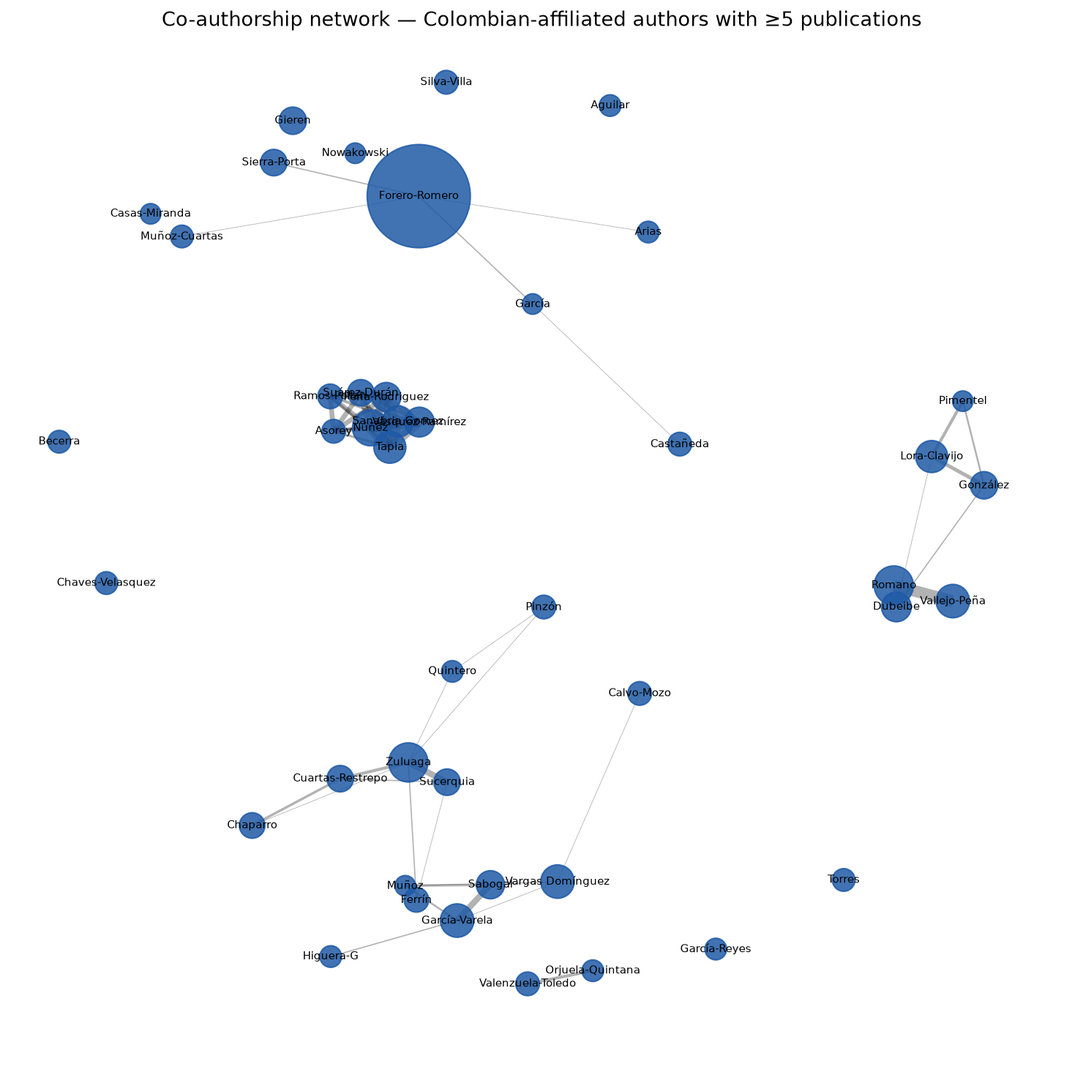
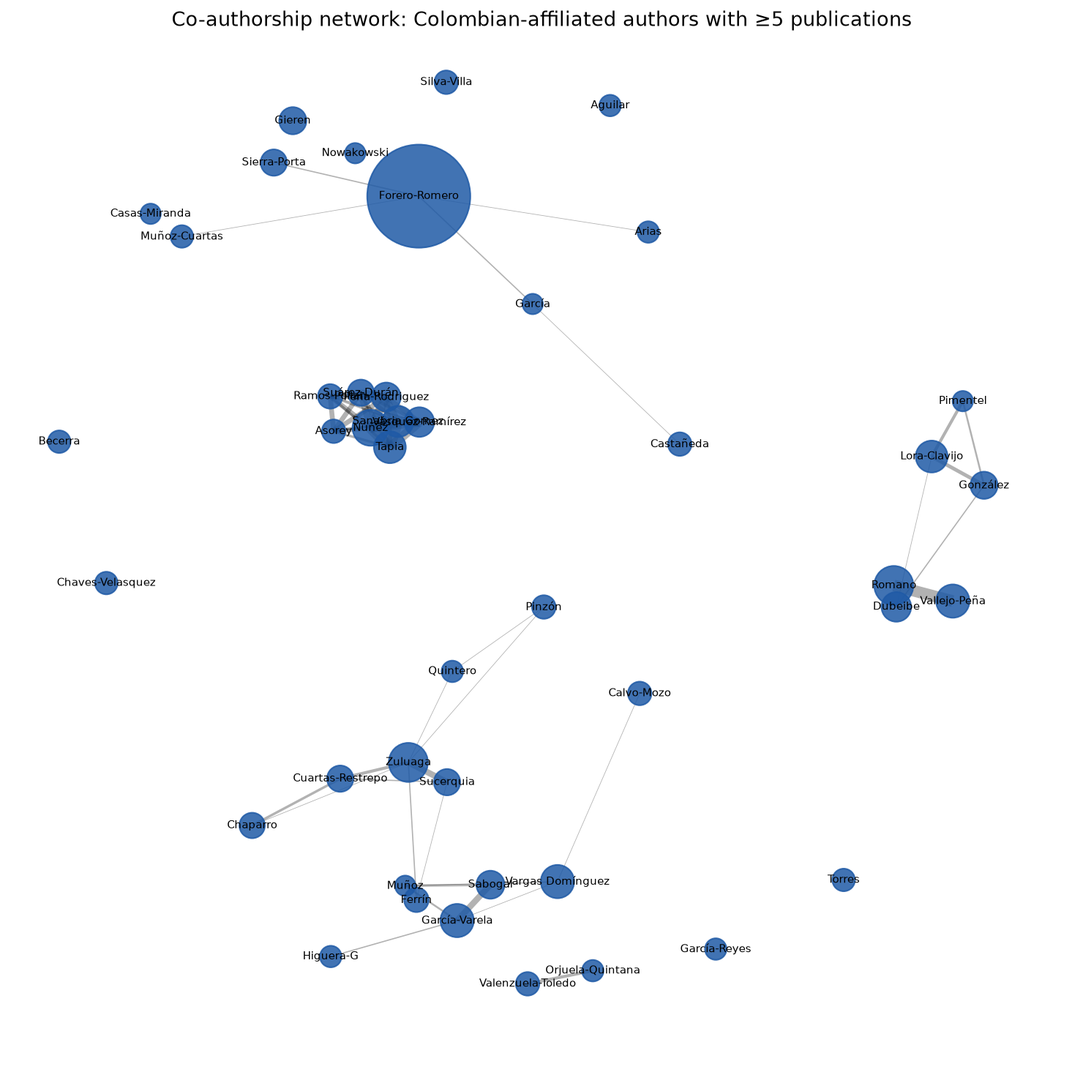
Eliminar las rayas de diálogo (em dash) del informe, el README y las figuras
Reescribe cada aparición en vez de sustituirla mecánicamente: los pares
pasan a paréntesis o comas, los separadores de leyendas de figuras y tablas
a dos puntos, y algunas frases se reordenan para que sigan leyéndose bien.
Los dos títulos de figura afectados en plots.py obligan a regenerar los PNG.

Los archivos de data/ conservan sus rayas: vienen de los títulos y
afiliaciones exportados por ADS y son datos, no prosa.

Changed region(s): [[0.1554, 0.0, 0.8392, 0.0311]]

diff --git a/index.html b/index.html
@@ -523,18 +523,18 @@
     <h2>Alcance y Limitaciones</h2>
     <p>Esta nota actualiza las tendencias institucionales y de autor&iacute;a reportadas en Forero&#8209;Romero (2024) usando una exportaci&oacute;n reciente de NASA ADS, pero es un instrumento m&aacute;s limitado que aquel art&iacute;culo, construido sin Web of Science y sin un registro controlado de autores. Cinco limitaciones acotan cada figura y tabla a continuaci&oacute;n.</p>
     <ol class="caveat-list">
-      <li><span class="num">01</span><span>No existe un identificador de autor (ORCID) en esta exportaci&oacute;n. Las variantes de nombre &mdash; &ldquo;J. E.&rdquo; frente a &ldquo;Jaime E.&rdquo;, divisiones inconsistentes de apellidos compuestos, errores tipogr&aacute;ficos ocasionales en los metadatos &mdash; se fusionan mediante una heur&iacute;stica conservadora de apellido&#43;iniciales. A&uacute;n as&iacute;, puede separar o fusionar err&oacute;neamente a un pu&ntilde;ado de personas.</span></li>
-      <li><span class="num">02</span><span>La plantilla de exportaci&oacute;n de ADS trunca las listas de autores en 200, lo que afect&oacute; a los 50 art&iacute;culos de las grandes colaboraciones internacionales (DESI, LIGO/Virgo/KAGRA, Pierre Auger). Esas listas <strong style="color:inherit">se recuperaron completas por la API de ADS</strong> y las cifras de aqu&iacute; ya reflejan el n&uacute;mero real de autores &mdash; hasta 3.677 en un solo art&iacute;culo. En consecuencia, el promedio de autores por publicaci&oacute;n y las cifras de coautor&iacute;a est&aacute;n dominados por esos art&iacute;culos: la mediana (6 autores) describe mucho mejor al art&iacute;culo t&iacute;pico que el promedio (90).</span></li>
+      <li><span class="num">01</span><span>No existe un identificador de autor (ORCID) en esta exportaci&oacute;n. Las variantes de nombre (&ldquo;J. E.&rdquo; frente a &ldquo;Jaime E.&rdquo;, divisiones inconsistentes de apellidos compuestos, errores tipogr&aacute;ficos ocasionales en los metadatos) se fusionan mediante una heur&iacute;stica conservadora de apellido&#43;iniciales. A&uacute;n as&iacute;, puede separar o fusionar err&oacute;neamente a un pu&ntilde;ado de personas.</span></li>
+      <li><span class="num">02</span><span>La plantilla de exportaci&oacute;n de ADS trunca las listas de autores en 200, lo que afect&oacute; a los 50 art&iacute;culos de las grandes colaboraciones internacionales (DESI, LIGO/Virgo/KAGRA, Pierre Auger). Esas listas <strong style="color:inherit">se recuperaron completas por la API de ADS</strong> y las cifras de aqu&iacute; ya reflejan el n&uacute;mero real de autores, hasta 3.677 en un solo art&iacute;culo. En consecuencia, el promedio de autores por publicaci&oacute;n y las cifras de coautor&iacute;a est&aacute;n dominados por esos art&iacute;culos: la mediana (6 autores) describe mucho mejor al art&iacute;culo t&iacute;pico que el promedio (90).</span></li>
       <li><span class="num">03</span><span>La atribuci&oacute;n institucional es una coincidencia de subcadenas contra textos libres de afiliaci&oacute;n, no una consulta controlada ROR/GRID. Cerca del 3&#37; de las afiliaciones que mencionan a Colombia caen en una categor&iacute;a &ldquo;otra&rdquo; sin clasificar, en vez de una instituci&oacute;n identificada.</span></li>
-      <li><span class="num">04</span><span>Los conteos de citas son una &uacute;nica instant&aacute;nea de ADS, no una serie temporal. &ldquo;Citas por a&ntilde;o&rdquo; m&aacute;s abajo es el total de citas dividido por la edad del art&iacute;culo &mdash; un indicador aproximado del impacto, no una curva de tasa de citaci&oacute;n observada.</span></li>
+      <li><span class="num">04</span><span>Los conteos de citas son una &uacute;nica instant&aacute;nea de ADS, no una serie temporal. &ldquo;Citas por a&ntilde;o&rdquo; m&aacute;s abajo es el total de citas dividido por la edad del art&iacute;culo: un indicador aproximado del impacto, no una curva de tasa de citaci&oacute;n observada.</span></li>
       <li><span class="num">05</span><span>Se excluye en todo el an&aacute;lisis un &uacute;nico registro de 2027 en prensa, por ser un grupo demasiado escaso para interpretar.</span></li>
     </ol>
-    <p>Nada de esto invalida la tendencia general: la producci&oacute;n astron&oacute;mica con afiliaci&oacute;n colombiana ha crecido cerca de dos &oacute;rdenes de magnitud desde 1980, bajo cualquier conjunto razonable de decisiones metodol&oacute;gicas. Pero los datos puntuales &mdash; y en especial las instituciones m&aacute;s peque&ntilde;as, los conteos bajos de publicaciones, y cualquier cifra que involucre a las grandes colaboraciones internacionales &mdash; deben leerse como descriptivos, no como precisos.</p>
+    <p>Nada de esto invalida la tendencia general: la producci&oacute;n astron&oacute;mica con afiliaci&oacute;n colombiana ha crecido cerca de dos &oacute;rdenes de magnitud desde 1980, bajo cualquier conjunto razonable de decisiones metodol&oacute;gicas. Pero los datos puntuales, y en especial las instituciones m&aacute;s peque&ntilde;as, los conteos bajos de publicaciones y cualquier cifra que involucre a las grandes colaboraciones internacionales, deben leerse como descriptivos, no como precisos.</p>
   </div>
 
   <div class="abstract">
     <span class="label">Resumen</span>
-    <p class="lede">Recopilamos 723 publicaciones de astronom&iacute;a y astrof&iacute;sica indexadas en el Astrophysics Data System de la NASA con al menos un autor de afiliaci&oacute;n colombiana, entre 1980 y 2026. El conjunto de registros abarca 56 revistas y, tras la fusi&oacute;n heur&iacute;stica de nombres, cerca de 403 investigadores individuales en 33 instituciones identificadas, que en conjunto acumulan m&aacute;s de 26.500 citas y un &iacute;ndice <em>h</em> global de 65. Reportamos tendencias de crecimiento, efectos del tama&ntilde;o de colaboraci&oacute;n, patrones de citaci&oacute;n, clasificaciones institucionales, y distribuciones por revista y por tema, siguiendo el enfoque descriptivo de Forero&#8209;Romero (2024) en todo lo que los datos disponibles lo permiten. Universidad de los Andes, Universidad de Antioquia, Universidad Nacional de Colombia y Universidad Industrial de Santander siguen siendo los cuatro mayores contribuyentes &mdash; consistente con el hallazgo central del estudio anterior pese a tres a&ntilde;os adicionales de datos y una base de datos fuente distinta.</p>
+    <p class="lede">Recopilamos 723 publicaciones de astronom&iacute;a y astrof&iacute;sica indexadas en el Astrophysics Data System de la NASA con al menos un autor de afiliaci&oacute;n colombiana, entre 1980 y 2026. El conjunto de registros abarca 56 revistas y, tras la fusi&oacute;n heur&iacute;stica de nombres, cerca de 403 investigadores individuales en 33 instituciones identificadas, que en conjunto acumulan m&aacute;s de 26.500 citas y un &iacute;ndice <em>h</em> global de 65. Reportamos tendencias de crecimiento, efectos del tama&ntilde;o de colaboraci&oacute;n, patrones de citaci&oacute;n, clasificaciones institucionales, y distribuciones por revista y por tema, siguiendo el enfoque descriptivo de Forero&#8209;Romero (2024) en todo lo que los datos disponibles lo permiten. Universidad de los Andes, Universidad de Antioquia, Universidad Nacional de Colombia y Universidad Industrial de Santander siguen siendo los cuatro mayores contribuyentes, consistente con el hallazgo central del estudio anterior pese a tres a&ntilde;os adicionales de datos y una base de datos fuente distinta.</p>
   </div>
 
   <div class="stat-strip">
@@ -551,7 +551,7 @@
       <span class="chapter-num">1</span>
       <h2>Datos y Metodolog&iacute;a</h2>
     </div>
-    <p>Se concatenaron y depuraron por bibcode dos exportaciones de ADS en formato personalizado &mdash; una amplia, otra m&aacute;s acotada &mdash; hasta obtener un conjunto &uacute;nico de 723 registros, sin solapamiento entre las dos consultas de origen. Una segunda plantilla de exportaci&oacute;n de ADS, emparejada con la primera por posici&oacute;n de fila y verificada mediante comparaci&oacute;n de t&iacute;tulos, aport&oacute; los conteos de citas que el formato etiquetado principal no incluye. Las instituciones se identificaron cotejando cada texto libre de afiliaci&oacute;n contra una lista curada de nombres de universidades colombianas y sus formas normalizadas al ingl&eacute;s por ADS (por ejemplo, &ldquo;National University of Colombia&rdquo; para la Universidad Nacional); los nombres de autores se consolidaron mediante la heur&iacute;stica de apellido&#43;iniciales descrita arriba. La metodolog&iacute;a completa, el c&oacute;digo del analizador y ambas exportaciones de origen est&aacute;n en el repositorio enlazado.</p>
+    <p>Se concatenaron y depuraron por bibcode dos exportaciones de ADS en formato personalizado (una amplia, otra m&aacute;s acotada) hasta obtener un conjunto &uacute;nico de 723 registros, sin solapamiento entre las dos consultas de origen. Una segunda plantilla de exportaci&oacute;n de ADS, emparejada con la primera por posici&oacute;n de fila y verificada mediante comparaci&oacute;n de t&iacute;tulos, aport&oacute; los conteos de citas que el formato etiquetado principal no incluye. Las instituciones se identificaron cotejando cada texto libre de afiliaci&oacute;n contra una lista curada de nombres de universidades colombianas y sus formas normalizadas al ingl&eacute;s por ADS (por ejemplo, &ldquo;National University of Colombia&rdquo; para la Universidad Nacional); los nombres de autores se consolidaron mediante la heur&iacute;stica de apellido&#43;iniciales descrita arriba. La metodolog&iacute;a completa, el c&oacute;digo del analizador y ambas exportaciones de origen est&aacute;n en el repositorio enlazado.</p>
   </section>
 
   <section class="chapter" id="growth">
@@ -559,10 +559,10 @@
       <span class="chapter-num">2</span>
       <h2>Crecimiento de la Producci&oacute;n</h2>
     </div>
-    <p>La producci&oacute;n acumulada ha crecido casi dos &oacute;rdenes de magnitud desde 1980, con la aceleraci&oacute;n m&aacute;s marcada desde inicios de la d&eacute;cada de 2010 en adelante &mdash; consistente con la &ldquo;fase de consolidaci&oacute;n&rdquo; que Forero&#8209;Romero (2024) ubica entre 2010 y 2019. Ambos paneles a continuaci&oacute;n usan un eje logar&iacute;tmico; en escala lineal, las primeras tres d&eacute;cadas se comprimen en una l&iacute;nea indistinguible en la parte inferior de la gr&aacute;fica.</p>
+    <p>La producci&oacute;n acumulada ha crecido casi dos &oacute;rdenes de magnitud desde 1980, con la aceleraci&oacute;n m&aacute;s marcada desde inicios de la d&eacute;cada de 2010 en adelante, consistente con la &ldquo;fase de consolidaci&oacute;n&rdquo; que Forero&#8209;Romero (2024) ubica entre 2010 y 2019. Ambos paneles a continuaci&oacute;n usan un eje logar&iacute;tmico; en escala lineal, las primeras tres d&eacute;cadas se comprimen en una l&iacute;nea indistinguible en la parte inferior de la gr&aacute;fica.</p>
     <figure>
       <div class="figure-card"><img src="output/figures/fig1_publications_over_time.png" alt="Trayectoria acumulada y anual de publicaciones entre 1980 y 2026, ambas en eje logar&iacute;tmico, mostrando cerca de dos &oacute;rdenes de magnitud de crecimiento con una inflexi&oacute;n hacia 2010."></div>
-      <figcaption><strong>Fig. 1</strong> &mdash; Trayectoria acumulada de publicaciones (izquierda) y publicaciones por a&ntilde;o (derecha), en escala logar&iacute;tmica. La ca&iacute;da aparente en los &uacute;ltimos dos a&ntilde;os se debe muy probablemente al rezago de indexaci&oacute;n de ADS, no a una disminuci&oacute;n real.</figcaption>
+      <figcaption><strong>Fig. 1</strong>: Trayectoria acumulada de publicaciones (izquierda) y publicaciones por a&ntilde;o (derecha), en escala logar&iacute;tmica. La ca&iacute;da aparente en los &uacute;ltimos dos a&ntilde;os se debe muy probablemente al rezago de indexaci&oacute;n de ADS, no a una disminuci&oacute;n real.</figcaption>
     </figure>
   </section>
 
@@ -571,15 +571,15 @@
       <span class="chapter-num">3</span>
       <h2>Tama&ntilde;o de Colaboraci&oacute;n</h2>
     </div>
-    <p>El n&uacute;mero promedio de autores por art&iacute;culo se mantuvo bajo y estable &mdash; t&iacute;picamente por debajo de diez &mdash; hasta 2016, cuando aumenta bruscamente. Ese cambio se explica casi por completo por un pu&ntilde;ado de grupos colombianos que se unieron a grandes colaboraciones internacionales: DESI, LIGO/Virgo/KAGRA y el Observatorio Pierre Auger. Con las listas de autores ya recuperadas completas (limitaci&oacute;n 02), el salto es a&uacute;n m&aacute;s pronunciado: unos pocos art&iacute;culos con miles de autores arrastran el promedio anual muy por encima de lo que produce cualquier grupo colombiano por s&iacute; solo. La mediana, mucho m&aacute;s estable, es la l&iacute;nea a mirar para el art&iacute;culo t&iacute;pico.</p>
+    <p>El n&uacute;mero promedio de autores por art&iacute;culo se mantuvo bajo y estable, t&iacute;picamente por debajo de diez, hasta 2016, cuando aumenta bruscamente. Ese cambio se explica casi por completo por un pu&ntilde;ado de grupos colombianos que se unieron a grandes colaboraciones internacionales: DESI, LIGO/Virgo/KAGRA y el Observatorio Pierre Auger. Con las listas de autores ya recuperadas completas (limitaci&oacute;n 02), el salto es a&uacute;n m&aacute;s pronunciado: unos pocos art&iacute;culos con miles de autores arrastran el promedio anual muy por encima de lo que produce cualquier grupo colombiano por s&iacute; solo. La mediana, mucho m&aacute;s estable, es la l&iacute;nea a mirar para el art&iacute;culo t&iacute;pico.</p>
     <div class="fig-row">
       <figure>
         <div class="figure-card"><img src="output/figures/fig2_avg_authors_per_year.png" alt="Autores promedio y mediana por publicaci&oacute;n y a&ntilde;o, bajos y estables antes de 2016 y luego en aumento marcado."></div>
-        <figcaption><strong>Fig. 2</strong> &mdash; Tama&ntilde;o medio/mediano de autor&iacute;a por a&ntilde;o.</figcaption>
+        <figcaption><strong>Fig. 2</strong>: Tama&ntilde;o medio/mediano de autor&iacute;a por a&ntilde;o.</figcaption>
       </figure>
       <figure>
         <div class="figure-card"><img src="output/figures/fig3_authors_distribution.png" alt="Histograma log-log del tama&ntilde;o de autor&iacute;a en todas las publicaciones, con una larga cola hacia grandes colaboraciones."></div>
-        <figcaption><strong>Fig. 3</strong> &mdash; Distribuci&oacute;n del tama&ntilde;o de autor&iacute;a (log&ndash;log).</figcaption>
+        <figcaption><strong>Fig. 3</strong>: Distribuci&oacute;n del tama&ntilde;o de autor&iacute;a (log&ndash;log).</figcaption>
       </figure>
     </div>
   </section>
@@ -589,15 +589,15 @@
       <span class="chapter-num">4</span>
       <h2>Citas</h2>
     </div>
-    <p>El total de citas por a&ntilde;o de publicaci&oacute;n refleja el crecimiento en la producci&oacute;n, agravado por el hecho de que los art&iacute;culos m&aacute;s antiguos simplemente han tenido m&aacute;s tiempo para acumular citas (limitaci&oacute;n 04). Las citas promedio por publicaci&oacute;n son m&aacute;s ruidosas pero muestran una tendencia al alza, marcada por unos pocos art&iacute;culos con citaci&oacute;n excepcional &mdash; el m&aacute;s visible, el descubrimiento multimensajero de la fusi&oacute;n de estrellas de neutrones de 2017.</p>
+    <p>El total de citas por a&ntilde;o de publicaci&oacute;n refleja el crecimiento en la producci&oacute;n, agravado por el hecho de que los art&iacute;culos m&aacute;s antiguos simplemente han tenido m&aacute;s tiempo para acumular citas (limitaci&oacute;n 04). Las citas promedio por publicaci&oacute;n son m&aacute;s ruidosas pero muestran una tendencia al alza, marcada por unos pocos art&iacute;culos con citaci&oacute;n excepcional. El m&aacute;s visible es el descubrimiento multimensajero de la fusi&oacute;n de estrellas de neutrones de 2017.</p>
     <figure>
       <div class="figure-card"><img src="output/figures/fig9_citations_per_year.png" alt="Citas totales por a&ntilde;o de publicaci&oacute;n en eje logar&iacute;tmico, y citas promedio por publicaci&oacute;n por a&ntilde;o en eje lineal."></div>
-      <figcaption><strong>Fig. 4</strong> &mdash; Citas totales por a&ntilde;o de publicaci&oacute;n (escala logar&iacute;tmica, izquierda) y citas promedio por publicaci&oacute;n (derecha).</figcaption>
+      <figcaption><strong>Fig. 4</strong>: Citas totales por a&ntilde;o de publicaci&oacute;n (escala logar&iacute;tmica, izquierda) y citas promedio por publicaci&oacute;n (derecha).</figcaption>
     </figure>
-    <p>La tasa de citaci&oacute;n &mdash; citas divididas por los a&ntilde;os transcurridos desde la publicaci&oacute;n, un control aproximado de la edad del art&iacute;culo &mdash; correlaciona con el tama&ntilde;o de colaboraci&oacute;n con un coeficiente de Pearson <em>r</em>&nbsp;=&nbsp;0,63 en espacio log&ndash;log: las listas de autores m&aacute;s grandes tienden a estar en art&iacute;culos m&aacute;s citados, lo cual no sorprende dado que varias de las mayores colaboraciones (DESI, LIGO) est&aacute;n tambi&eacute;n entre los campos m&aacute;s citados del conjunto de datos.</p>
+    <p>La tasa de citaci&oacute;n (citas divididas por los a&ntilde;os transcurridos desde la publicaci&oacute;n, un control aproximado de la edad del art&iacute;culo) correlaciona con el tama&ntilde;o de colaboraci&oacute;n con un coeficiente de Pearson <em>r</em>&nbsp;=&nbsp;0,63 en espacio log&ndash;log: las listas de autores m&aacute;s grandes tienden a estar en art&iacute;culos m&aacute;s citados, lo cual no sorprende dado que varias de las mayores colaboraciones (DESI, LIGO) est&aacute;n tambi&eacute;n entre los campos m&aacute;s citados del conjunto de datos.</p>
     <figure>
       <div class="figure-card"><img src="output/figures/fig10_citations_vs_authors.png" alt="Diagrama de dispersi&oacute;n de la tasa de citaci&oacute;n frente al n&uacute;mero de autores por publicaci&oacute;n, con histogramas marginales, mostrando una correlaci&oacute;n positiva log-log."></div>
-      <figcaption><strong>Fig. 5</strong> &mdash; Tasa de citaci&oacute;n frente a tama&ntilde;o de colaboraci&oacute;n, con distribuciones marginales. Los tama&ntilde;os de colaboraci&oacute;n son los reales, tras recuperar por la API de ADS las listas que la exportaci&oacute;n truncaba en 200 (limitaci&oacute;n 02).</figcaption>
+      <figcaption><strong>Fig. 5</strong>: Tasa de citaci&oacute;n frente a tama&ntilde;o de colaboraci&oacute;n, con distribuciones marginales. Los tama&ntilde;os de colaboraci&oacute;n son los reales, tras recuperar por la API de ADS las listas que la exportaci&oacute;n truncaba en 200 (limitaci&oacute;n 02).</figcaption>
     </figure>
   </section>
 
@@ -606,14 +606,14 @@
       <span class="chapter-num">5</span>
       <h2>Instituciones</h2>
     </div>
-    <p>Cuatro instituciones concentran la gran mayor&iacute;a de la producci&oacute;n atribuida institucionalmente: Universidad de los Andes, Universidad de Antioquia, Universidad Nacional de Colombia y Universidad Industrial de Santander &mdash; las mismas cuatro que encabezaban la clasificaci&oacute;n de Forero&#8209;Romero (2024) hace tres a&ntilde;os, ahora acompa&ntilde;adas de una cola m&aacute;s larga de contribuyentes menores. Como el rango abarca casi dos &oacute;rdenes de magnitud, la gr&aacute;fica a continuaci&oacute;n usa un eje logar&iacute;tmico.</p>
+    <p>Cuatro instituciones concentran la gran mayor&iacute;a de la producci&oacute;n atribuida institucionalmente: Universidad de los Andes, Universidad de Antioquia, Universidad Nacional de Colombia y Universidad Industrial de Santander, las mismas cuatro que encabezaban la clasificaci&oacute;n de Forero&#8209;Romero (2024) hace tres a&ntilde;os, ahora acompa&ntilde;adas de una cola m&aacute;s larga de contribuyentes menores. Como el rango abarca casi dos &oacute;rdenes de magnitud, la gr&aacute;fica a continuaci&oacute;n usa un eje logar&iacute;tmico.</p>
     <figure>
       <div class="figure-card"><img src="output/figures/fig4_top_institutions.png" alt="Gr&aacute;fico de barras horizontales de las 20 principales instituciones colombianas por n&uacute;mero de publicaciones, eje x logar&iacute;tmico, encabezado por la Universidad de los Andes."></div>
-      <figcaption><strong>Fig. 6</strong> &mdash; Las 20 principales instituciones colombianas por n&uacute;mero de publicaciones (escala logar&iacute;tmica).</figcaption>
+      <figcaption><strong>Fig. 6</strong>: Las 20 principales instituciones colombianas por n&uacute;mero de publicaciones (escala logar&iacute;tmica).</figcaption>
     </figure>
     <div class="table-wrap">
       <table>
-        <caption>Tabla 1 &mdash; Las 10 principales instituciones colombianas</caption>
+        <caption>Tabla 1: Las 10 principales instituciones colombianas</caption>
         <thead>
           <tr><th class="wrap">Instituci&oacute;n</th><th class="num">Pubs.</th><th class="num">Autores</th><th class="num">Citas</th><th class="num"><em>h</em></th><th class="num">Activa desde</th></tr>
         </thead>
@@ -638,15 +638,15 @@
       <span class="chapter-num">6</span>
       <h2>Revistas y Temas</h2>
     </div>
-    <p><em>Monthly Notices of the Royal Astronomical Society</em>, <em>The Astrophysical Journal</em> y el <em>Journal of Cosmology and Astroparticle Physics</em> concentran juntas m&aacute;s de la mitad de toda la producci&oacute;n &mdash; esta &uacute;ltima impulsada en buena parte por art&iacute;culos de la colaboraci&oacute;n DESI. La frecuencia de palabras clave, tomada de las etiquetas tem&aacute;ticas asignadas por ADS, muestra que el centro de masa del campo se ubica claramente en cosmolog&iacute;a y astrof&iacute;sica extragal&aacute;ctica, con f&iacute;sica solar/estelar y fen&oacute;menos de alta energ&iacute;a como el siguiente nivel.</p>
+    <p><em>Monthly Notices of the Royal Astronomical Society</em>, <em>The Astrophysical Journal</em> y el <em>Journal of Cosmology and Astroparticle Physics</em> concentran juntas m&aacute;s de la mitad de toda la producci&oacute;n, esta &uacute;ltima impulsada en buena parte por art&iacute;culos de la colaboraci&oacute;n DESI. La frecuencia de palabras clave, tomada de las etiquetas tem&aacute;ticas asignadas por ADS, muestra que el centro de masa del campo se ubica claramente en cosmolog&iacute;a y astrof&iacute;sica extragal&aacute;ctica, con f&iacute;sica solar/estelar y fen&oacute;menos de alta energ&iacute;a como el siguiente nivel.</p>
     <div class="fig-row">
       <figure>
         <div class="figure-card"><img src="output/figures/fig6_top_journals.png" alt="Gr&aacute;fico de barras horizontales de las 15 principales revistas por n&uacute;mero de publicaciones, encabezado por Monthly Notices of the Royal Astronomical Society."></div>
-        <figcaption><strong>Fig. 7</strong> &mdash; Las 15 principales revistas.</figcaption>
+        <figcaption><strong>Fig. 7</strong>: Las 15 principales revistas.</figcaption>
       </figure>
       <figure>
         <div class="figure-card"><img src="output/figures/fig7_top_keywords.png" alt="Gr&aacute;fico de barras horizontales de las 25 principales palabras clave por ocurrencia, encabezado por cosmolog&iacute;a y astrof&iacute;sica no galáctica."></div>
-        <figcaption><strong>Fig. 8</strong> &mdash; Las 25 principales palabras clave.</figcaption>
+        <figcaption><strong>Fig. 8</strong>: Las 25 principales palabras clave.</figcaption>
       </figure>
     </div>
   </section>
@@ -656,10 +656,10 @@
       <span class="chapter-num">7</span>
       <h2>Trabajos M&aacute;s Citados</h2>
     </div>
-    <p>El art&iacute;culo individual m&aacute;s citado con un autor colombiano &mdash; por un margen amplio &mdash; es el descubrimiento multimensajero de LIGO/Virgo de 2017 sobre la fusi&oacute;n de un sistema binario de estrellas de neutrones, con 4.140 citas. Ocho de los nueve puestos restantes del top 10 pertenecen a art&iacute;culos de la colaboraci&oacute;n DESI de 2022&ndash;2026, consecuencia directa de la reciente incorporaci&oacute;n de grupos colombianos a ese proyecto.</p>
+    <p>El art&iacute;culo individual m&aacute;s citado con un autor colombiano, por un margen amplio, es el descubrimiento multimensajero de LIGO/Virgo de 2017 sobre la fusi&oacute;n de un sistema binario de estrellas de neutrones, con 4.140 citas. Ocho de los nueve puestos restantes del top 10 pertenecen a art&iacute;culos de la colaboraci&oacute;n DESI de 2022&ndash;2026, consecuencia directa de la reciente incorporaci&oacute;n de grupos colombianos a ese proyecto.</p>
     <div class="table-wrap">
       <table>
-        <caption>Tabla 2 &mdash; Los 10 art&iacute;culos m&aacute;s citados</caption>
+        <caption>Tabla 2: Los 10 art&iacute;culos m&aacute;s citados</caption>
         <thead>
           <tr><th class="wrap">T&iacute;tulo</th><th class="num">A&ntilde;o</th><th class="num">Citas</th><th class="num">Autores</th></tr>
         </thead>
@@ -685,15 +685,15 @@
       <span class="chapter-num">8</span>
       <h2>Clasificaci&oacute;n sin las Grandes Colaboraciones Internacionales</h2>
     </div>
-    <p>La Tabla 1 mide dos cosas a la vez: el trabajo liderado desde Colombia y la pertenencia a grandes consorcios internacionales. Un solo coautor colombiano en un art&iacute;culo de 3.000 firmantes suma a su instituci&oacute;n una publicaci&oacute;n y el total de sus citas, exactamente igual que un art&iacute;culo de tres personas escrito &iacute;ntegramente en Bogot&aacute; o Medell&iacute;n. Para separar ambos efectos, repetimos aqu&iacute; la misma clasificaci&oacute;n conservando &uacute;nicamente las publicaciones con <strong style="color:inherit">30 autores o menos</strong>. Ese subconjunto son 480 de los 723 registros &mdash; el 66&#37; de los art&iacute;culos, pero solo el 32&#37; de las citas.</p>
+    <p>La Tabla 1 mide dos cosas a la vez: el trabajo liderado desde Colombia y la pertenencia a grandes consorcios internacionales. Un solo coautor colombiano en un art&iacute;culo de 3.000 firmantes suma a su instituci&oacute;n una publicaci&oacute;n y el total de sus citas, exactamente igual que un art&iacute;culo de tres personas escrito &iacute;ntegramente en Bogot&aacute; o Medell&iacute;n. Para separar ambos efectos, repetimos aqu&iacute; la misma clasificaci&oacute;n conservando &uacute;nicamente las publicaciones con <strong style="color:inherit">30 autores o menos</strong>. Ese subconjunto son 480 de los 723 registros: el 66&#37; de los art&iacute;culos, pero solo el 32&#37; de las citas.</p>
     <p>El umbral de 30 es una convenci&oacute;n, no un l&iacute;mite natural: separa los grupos de investigaci&oacute;n y las colaboraciones de tama&ntilde;o moderado de los consorcios tipo DESI, LIGO/Virgo/KAGRA y Pierre Auger, cuyas listas de autores son de cientos o miles. Las publicaciones descartadas son trabajo real y a menudo de alto impacto; el punto no es excluirlas, sino ver qu&eacute; queda cuando no dominan el conteo.</p>
     <figure>
       <div class="figure-card"><img src="output/figures/fig11_top_institutions_small_teams.png" alt="Gr&aacute;fico de barras horizontales de las 20 principales instituciones colombianas contando solo publicaciones con 30 autores o menos, eje x logar&iacute;tmico; Universidad de los Andes, Antioquia y Nacional quedan casi empatadas."></div>
-      <figcaption><strong>Fig. 9</strong> &mdash; Las 20 principales instituciones contando solo publicaciones con 30 autores o menos (escala logar&iacute;tmica). Comp&aacute;rese con la Fig. 6.</figcaption>
+      <figcaption><strong>Fig. 9</strong>: Las 20 principales instituciones contando solo publicaciones con 30 autores o menos (escala logar&iacute;tmica). Comp&aacute;rese con la Fig. 6.</figcaption>
     </figure>
     <div class="table-wrap">
       <table>
-        <caption>Tabla 3 &mdash; Las 10 principales instituciones, solo publicaciones con &#8804;30 autores</caption>
+        <caption>Tabla 3: Las 10 principales instituciones, solo publicaciones con &#8804;30 autores</caption>
         <thead>
           <tr><th class="wrap">Instituci&oacute;n</th><th class="num">Pubs.</th><th class="num">Autores</th><th class="num">Citas</th><th class="num"><em>h</em></th><th class="num">Pubs. en Tabla 1</th></tr>
         </thead>
@@ -711,13 +711,13 @@
         </tbody>
       </table>
     </div>
-    <p>El cambio m&aacute;s marcado est&aacute; en la cabeza de la tabla. La Universidad de los Andes pasa de 298 a 106 publicaciones: cerca de dos tercios de su producci&oacute;n registrada proviene de art&iacute;culos de grandes colaboraciones internacionales, sobre todo DESI. La Universidad Nacional de Colombia, en cambio, pasa de 99 a 97 &mdash; su recuento es casi enteramente trabajo de grupos peque&ntilde;os. El resultado es un empate pr&aacute;cticamente triple en la cima: 106, 97 y 97 publicaciones, en vez de una ventaja de tres a uno. La Universidad Industrial de Santander baja de 84 a 60 (su participaci&oacute;n en Pierre Auger), y la Universidad de Medell&iacute;n cae de 24 a 5 y sale del top 10, sustituida por la Universidad Militar Nueva Granada.</p>
+    <p>El cambio m&aacute;s marcado est&aacute; en la cabeza de la tabla. La Universidad de los Andes pasa de 298 a 106 publicaciones: cerca de dos tercios de su producci&oacute;n registrada proviene de art&iacute;culos de grandes colaboraciones internacionales, sobre todo DESI. La Universidad Nacional de Colombia, en cambio, pasa de 99 a 97, porque su recuento es casi enteramente trabajo de grupos peque&ntilde;os. El resultado es un empate pr&aacute;cticamente triple en la cima: 106, 97 y 97 publicaciones, en vez de una ventaja de tres a uno. La Universidad Industrial de Santander baja de 84 a 60 (su participaci&oacute;n en Pierre Auger), y la Universidad de Medell&iacute;n cae de 24 a 5 y sale del top 10, sustituida por la Universidad Militar Nueva Granada.</p>
     <p>Las citas se reordenan a&uacute;n m&aacute;s: Uniandes pasa de 12.603 a 2.664 y la UIS de 6.723 a 1.092, mientras que la Nacional apenas baja de 1.357 a 1.254. Dicho de otro modo, la mayor parte de la ventaja en citas de las dos primeras instituciones proviene de art&iacute;culos de consorcio con cientos o miles de coautores, donde la contribuci&oacute;n colombiana es una fracci&oacute;n del total. Ninguna de las dos lecturas es la correcta por s&iacute; sola: la Tabla 1 mide participaci&oacute;n en la astronom&iacute;a mundial y la Tabla 3 mide capacidad de investigaci&oacute;n propia, y la diferencia entre ambas es en s&iacute; misma el hallazgo.</p>
 
-    <p>El mismo corte aplicado a los trabajos m&aacute;s citados cambia la lista por completo: ninguno de los diez art&iacute;culos de la Tabla 2 sobrevive, salvo <em>Tracing the cosmic web</em>, que con exactamente 30 autores queda justo en el l&iacute;mite. Lo que aparece en su lugar son art&iacute;culos de grupos peque&ntilde;os &mdash; entre tres y doce autores &mdash; en cosmolog&iacute;a de la red c&oacute;smica, poblaciones estelares y c&uacute;mulos j&oacute;venes, astrof&iacute;sica relativista y galaxias ultradifusas.</p>
+    <p>El mismo corte aplicado a los trabajos m&aacute;s citados cambia la lista por completo: ninguno de los diez art&iacute;culos de la Tabla 2 sobrevive, salvo <em>Tracing the cosmic web</em>, que con exactamente 30 autores queda justo en el l&iacute;mite. Lo que aparece en su lugar son art&iacute;culos de grupos peque&ntilde;os, de entre tres y doce autores, en cosmolog&iacute;a de la red c&oacute;smica, poblaciones estelares y c&uacute;mulos j&oacute;venes, astrof&iacute;sica relativista y galaxias ultradifusas.</p>
     <div class="table-wrap">
       <table>
-        <caption>Tabla 4 &mdash; Los 10 art&iacute;culos m&aacute;s citados con &#8804;30 autores</caption>
+        <caption>Tabla 4: Los 10 art&iacute;culos m&aacute;s citados con &#8804;30 autores</caption>
         <thead>
           <tr><th class="wrap">T&iacute;tulo</th><th class="num">A&ntilde;o</th><th class="num">Citas</th><th class="num">Autores</th><th class="wrap">Instituci&oacute;n colombiana</th></tr>
         </thead>
@@ -735,7 +735,7 @@
         </tbody>
       </table>
     </div>
-    <p class="tight">El art&iacute;culo m&aacute;s citado de esta lista acumula 364 citas, frente a las 4.140 del primero de la Tabla 2 &mdash; un orden de magnitud de diferencia. Tambi&eacute;n destaca la concentraci&oacute;n temporal: nueve de los diez son de 2010&ndash;2018, lo esperable dado que las citas se acumulan con el tiempo y estos art&iacute;culos no reciben el impulso inmediato de un anuncio de consorcio.</p>
+    <p class="tight">El art&iacute;culo m&aacute;s citado de esta lista acumula 364 citas, frente a las 4.140 del primero de la Tabla 2: un orden de magnitud de diferencia. Tambi&eacute;n destaca la concentraci&oacute;n temporal: nueve de los diez son de 2010&ndash;2018, lo esperable dado que las citas se acumulan con el tiempo y estos art&iacute;culos no reciben el impulso inmediato de un anuncio de consorcio.</p>
   </section>
 
   <div class="availability">

diff --git a/src/plots.py b/src/plots.py
@@ -152,7 +152,7 @@ def fig_citations_per_year(pubs: pd.DataFrame) -> None:
     ax2.set_title("Mean citations per publication, by year")
 
     fig.suptitle(
-        f"Citations accumulated as of {CURRENT_YEAR} — older papers have had more time to be cited",
+        f"Citations accumulated as of {CURRENT_YEAR}: older papers have had more time to be cited",
         y=1.02,
         fontsize=10,
     )
@@ -322,7 +322,7 @@ def fig_coauthorship_network(authors: pd.DataFrame, min_pubs: int = 5) -> None:
     labels = {n: n.split(",")[0] for n in g.nodes}
     nx.draw_networkx_labels(g, pos, labels=labels, ax=ax, font_size=7)
     ax.set_title(
-        f"Co-authorship network — Colombian-affiliated authors with ≥{min_pubs} publications"
+        f"Co-authorship network: Colombian-affiliated authors with ≥{min_pubs} publications"
     )
     ax.axis("off")
     fig.tight_layout()

diff --git a/README.md b/README.md
@@ -11,16 +11,16 @@ Forero-Romero (2024), *"Astronomy in Colombia: a bibliometric perspective"*
 `data/raw/` holds two pairs of ADS exports, both for the same underlying
 query/result set:
 
-- `export-ads.txt` / `export-ads-1.txt` — the tagged `%R/%T/%A/...` custom
+- `export-ads.txt` / `export-ads-1.txt`: the tagged `%R/%T/%A/...` custom
   format, concatenated into `data/raw/combined_ads_export.txt` (724 unique
   records, no overlapping bibcodes between the two files). Carries bibcode,
   title, authors, per-author affiliations, journal, volume, date, page,
   keywords, abstract, publisher, URL, DOI, and arXiv id.
-- `export-custom.txt` / `export-custom-1.txt` — a second ADS export template,
+- `export-custom.txt` / `export-custom-1.txt`: a second ADS export template,
   same 724 records in the same order, adding a `num_citations` column that
   the tagged format doesn't carry. It has no bibcode, so citation counts are
   matched back onto the tagged records purely by row position (verified by
-  comparing titles at each index — 718/724 match exactly, the rest differ
+  comparing titles at each index; 718/724 match exactly, the rest differ
   only in markup/quoting). See `src/parse_citations.py`.
 
 ## Pipeline
@@ -62,7 +62,7 @@ python3 src/plots.py               # -> output/figures/*.png, output/tables/*
 <https://ui.adsabs.harvard.edu/user/settings/token>. It caches every API
 response in `data/raw/ads_full_authors.json`, so with that file committed a
 re-run is a no-op offline for the records already fetched. It **must** run
-after `build_dataset.py` — that script rewrites the processed CSVs from the raw
+after `build_dataset.py`, because that script rewrites the processed CSVs from the raw
 exports and so reintroduces the truncation.
 
 ## Institution matching
@@ -85,7 +85,7 @@ that a Colombian group also belongs to.
 ## Author name matching
 
 There's no author-id (ORCID) in this export, and the same person shows up
-under several ADS name-string variants across records — different levels of
+under several ADS name-string variants across records: different levels of
 given-name detail ("Forero-Romero, J. E." vs. "Forero-Romero, Jaime E."),
 occasional metadata typos ("Jamie E." for "Jaime E."), and inconsistent
 compound-surname splits ("Enea Romano, Antonio" vs. "Romano, Antonio Enea").
@@ -102,7 +102,7 @@ genuinely different name spellings.
 ## Known limitations
 
 - **2027 is excluded from all analysis.** At the time of writing there is a
-  single in-press 2027 record (already assigned a bibcode) — too sparse a
+  single in-press 2027 record (already assigned a bibcode), too sparse a
   bucket to be meaningful in year-based trends, and it would otherwise show
   up as a one-off drop in every time series. `build_dataset.py` drops it
   before writing `publications.csv`/`authorships.csv`.
@@ -112,7 +112,7 @@ genuinely different name spellings.
   as universities.
 - **Author lists truncated at 200 have been repaired via the ADS API.** This
   export template caps author lists at 200, which affected the 50 huge
-  collaboration papers in the sample (DESI, LIGO/Virgo/KAGRA, Pierre Auger —
+  collaboration papers in the sample (DESI, LIGO/Virgo/KAGRA, Pierre Auger;
   several have thousands of real authors). `src/fetch_full_authors.py` refetches
   the full author/affiliation lists for those bibcodes and rewrites the
   affected rows of the processed CSVs; responses are cached in
@@ -136,28 +136,28 @@ genuinely different name spellings.
 ## Outputs
 
 **Figures** (`output/figures/`):
-1. `fig1_publications_over_time.png` — cumulative and per-year publication counts (log scale)
-2. `fig2_avg_authors_per_year.png` — mean/median authors per publication by year
-3. `fig3_authors_distribution.png` — log-log histogram of authorship size
-4. `fig4_top_institutions.png` — top 20 Colombian institutions by publication count
-5. `fig5_top_authors.png` — top 20 Colombian-affiliated authors by publication count
-6. `fig6_top_journals.png` — top 15 journals
-7. `fig7_top_keywords.png` — top 25 keywords
-8. `fig8_coauthorship_network.png` — co-authorship network among Colombian-affiliated authors with ≥5 publications
-9. `fig9_citations_per_year.png` — total and mean citations by publication year
-10. `fig10_citations_vs_authors.png` — citation rate vs. collaboration size, with marginal histograms and Pearson r
-11. `fig11_top_institutions_small_teams.png` — the Fig. 4 ranking restricted to publications with ≤30 authors
+1. `fig1_publications_over_time.png`: cumulative and per-year publication counts (log scale)
+2. `fig2_avg_authors_per_year.png`: mean/median authors per publication by year
+3. `fig3_authors_distribution.png`: log-log histogram of authorship size
+4. `fig4_top_institutions.png`: top 20 Colombian institutions by publication count
+5. `fig5_top_authors.png`: top 20 Colombian-affiliated authors by publication count
+6. `fig6_top_journals.png`: top 15 journals
+7. `fig7_top_keywords.png`: top 25 keywords
+8. `fig8_coauthorship_network.png`: co-authorship network among Colombian-affiliated authors with ≥5 publications
+9. `fig9_citations_per_year.png`: total and mean citations by publication year
+10. `fig10_citations_vs_authors.png`: citation rate vs. collaboration size, with marginal histograms and Pearson r
+11. `fig11_top_institutions_small_teams.png`: the Fig. 4 ranking restricted to publications with ≤30 authors
 
 **Tables** (`output/tables/`): `table1_institutions` (adds total citations and
 h-index per institution), `table2_top_authors`, `table3_journals`,
 `table4_top_cited` (top 10 most-cited articles), `table5_institutions_small_teams`,
-`table6_top_cited_small_teams` — all CSV + Markdown — plus `summary_stats.md`.
+`table6_top_cited_small_teams`, all CSV + Markdown, plus `summary_stats.md`.
 
 `fig11` / `table5` re-rank institutions counting only publications with at most
 30 authors (480 of 723 records, 66% of the papers but 32% of the citations).
 Table 1 conflates Colombia-led work with membership in DESI / LIGO-Virgo-KAGRA /
-Pierre Auger — one Colombian coauthor on a 3,000-author paper contributes a full
-publication and its full citation count — and the restricted view separates the
+Pierre Auger (one Colombian coauthor on a 3,000-author paper contributes a full
+publication and its full citation count), and the restricted view separates the
 two. It changes the head of the ranking substantially: Universidad de los Andes
 falls from 298 to 106 publications while Universidad Nacional goes from 99 to
 97, turning a three-to-one lead into a near three-way tie. `table6` applies the
